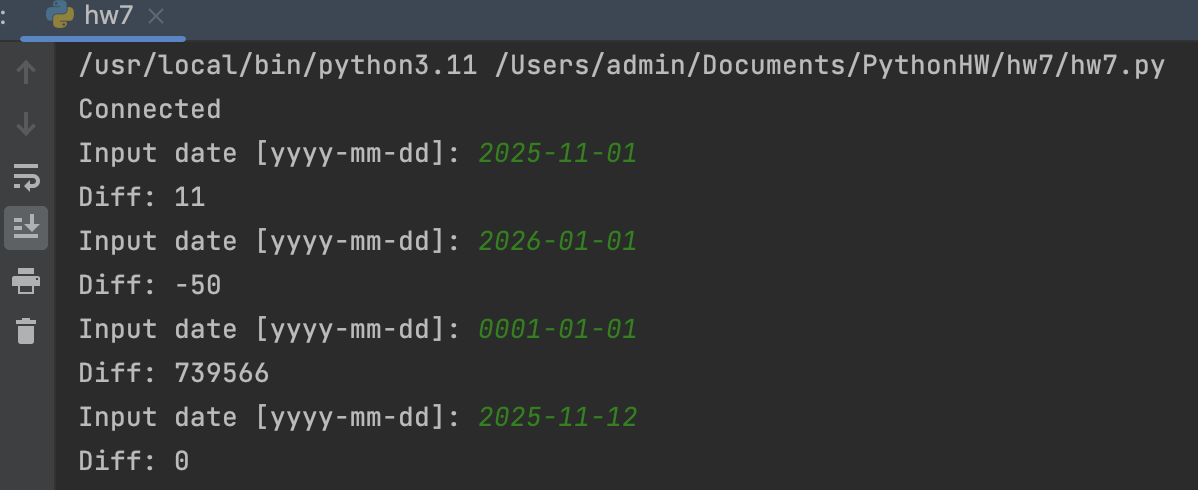
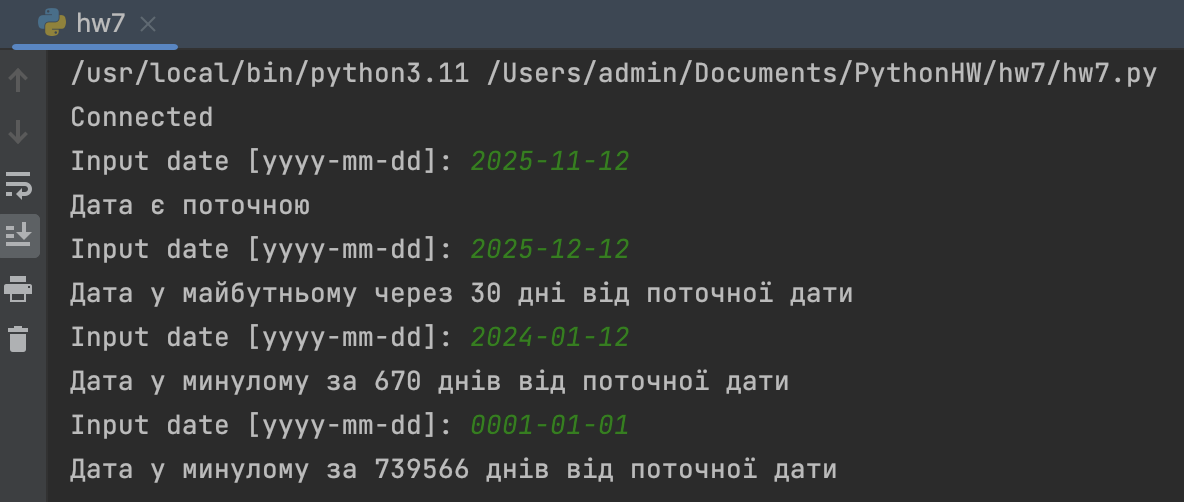
f

diff --git a/hw7/hw7.py b/hw7/hw7.py
@@ -62,10 +62,17 @@ def show_prep(date: str):
             cursor.execute(sql, (date,))
 
             for row in cursor:
-                if row["date difference"] is None:
+                diff = row["date difference"]
+
+                if diff is None:
                     print("Invalid format")
-                else:
-                    print("Diff:", row["date difference"])
+                elif diff == 0:
+                    print("Дата є поточною")
+                elif diff > 0:
+                    print(f"Дата у минулому за {diff} днів від поточної дати")
+                elif diff < 0:
+                    print(f"Дата у майбутньому через {-diff} дні від поточної дати")
+
     except mysql.connector.Error as err:
         print("ERR:", err)
         print("SQL:", sql)
